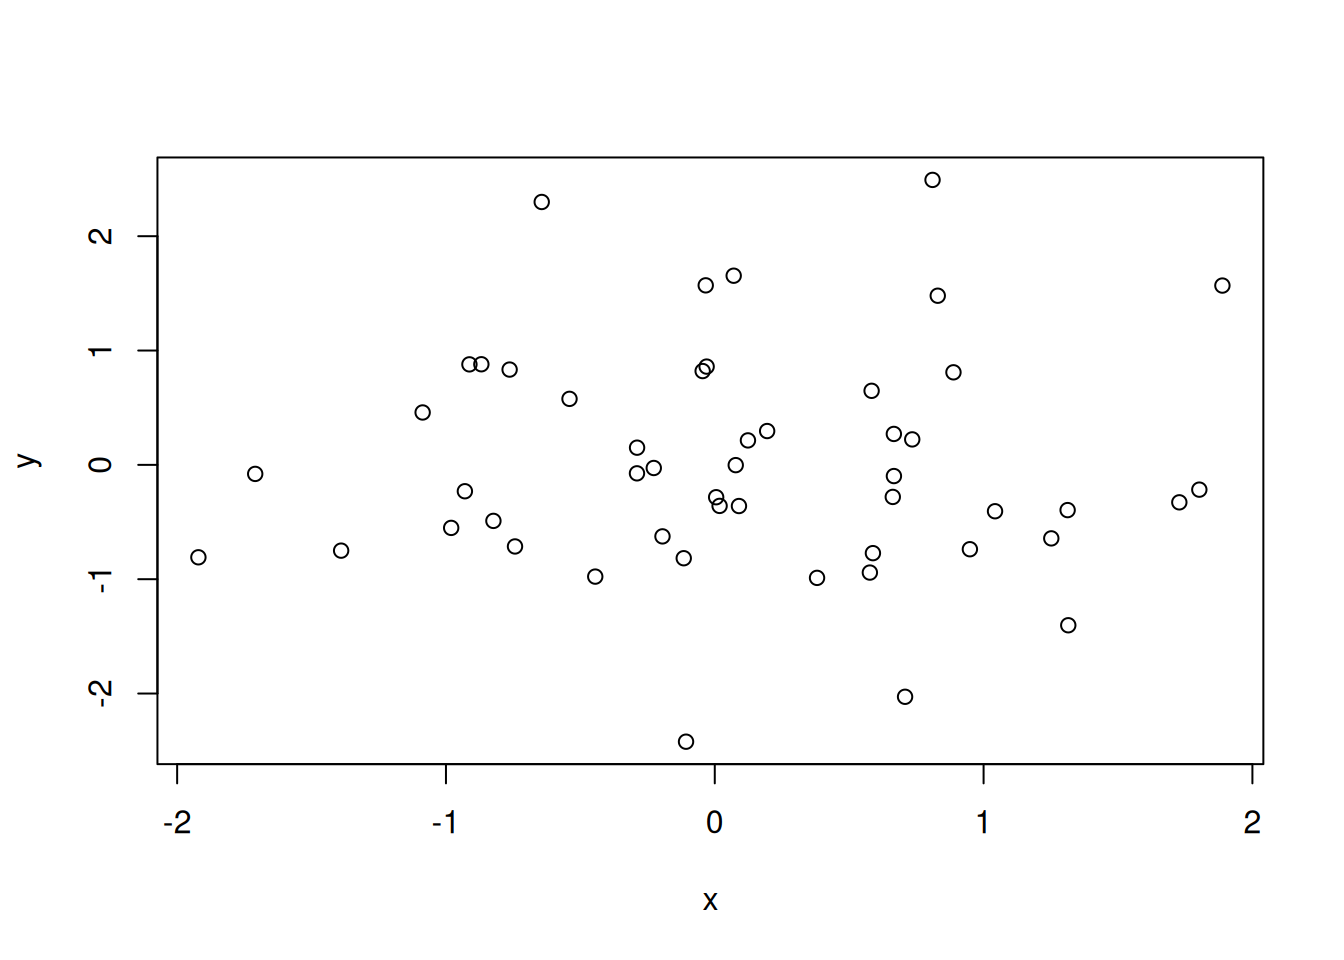
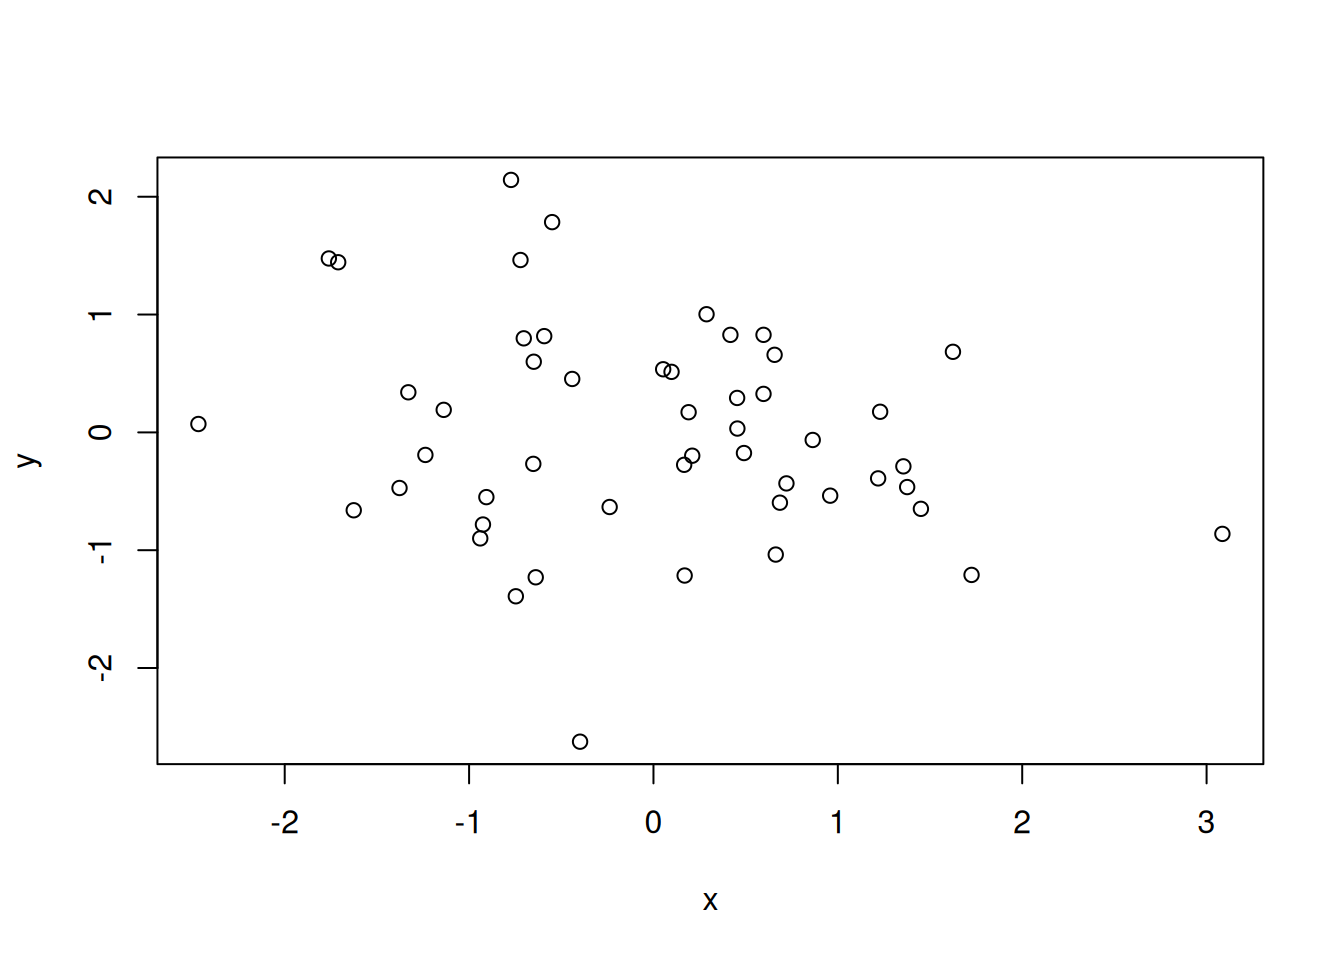
vscode

diff --git a/훑어보기.html b/훑어보기.html
@@ -2,7 +2,7 @@
 <html xmlns="http://www.w3.org/1999/xhtml" lang="en" xml:lang="en"><head>
 
 <meta charset="utf-8">
-<meta name="generator" content="quarto-1.8.25">
+<meta name="generator" content="quarto-1.8.27">
 
 <meta name="viewport" content="width=device-width, initial-scale=1.0, user-scalable=yes">
 
@@ -67,7 +67,7 @@ pre > code.sourceCode > span > a:first-child::before { text-decoration: underlin
 <script src="훑어보기_files/libs/quarto-html/tippy.umd.min.js"></script>
 <script src="훑어보기_files/libs/quarto-html/anchor.min.js"></script>
 <link href="훑어보기_files/libs/quarto-html/tippy.css" rel="stylesheet">
-<link href="훑어보기_files/libs/quarto-html/quarto-syntax-highlighting-7b89279ff1a6dce999919e0e67d4d9ec.css" rel="stylesheet" id="quarto-text-highlighting-styles">
+<link href="훑어보기_files/libs/quarto-html/quarto-syntax-highlighting-ed96de9b727972fe78a7b5d16c58bf87.css" rel="stylesheet" id="quarto-text-highlighting-styles">
 <script src="훑어보기_files/libs/bootstrap/bootstrap.min.js"></script>
 <link href="훑어보기_files/libs/bootstrap/bootstrap-icons.css" rel="stylesheet">
 <link href="훑어보기_files/libs/bootstrap/bootstrap-89b822375b1983cf57e0aa229304cf7a.min.css" rel="stylesheet" append-hash="true" id="quarto-bootstrap" data-mode="light">
@@ -109,9 +109,6 @@ pre > code.sourceCode > span > a:first-child::before { text-decoration: underlin
 <section id="r-훑어보기" class="level2">
 <h2 class="anchored" data-anchor-id="r-훑어보기">R 훑어보기</h2>
 <p>R 환경에서 할 수 있는 작업들을 빠르게 살펴 보자. (RStudio 실행)</p>
-</section>
-<section id="그래프" class="level2">
-<h2 class="anchored" data-anchor-id="그래프">그래프</h2>
 <p>다음 명령들을 콘솔(Comsole) 탭에 차례로 입력하면 간단한 그래프를 그려준다. (현 단계에서 그래프 출력 관련한 사용자 설정 방법은 무시)</p>
 <div class="cell">
 <div class="code-copy-outer-scaffold"><div class="sourceCode cell-code" id="cb1"><pre class="sourceCode r code-with-copy"><code class="sourceCode r"><span id="cb1-1"><a href="#cb1-1" aria-hidden="true" tabindex="-1"></a>x <span class="ot">&lt;-</span> <span class="fu">rnorm</span>(<span class="dv">50</span>)</span>
@@ -129,7 +126,7 @@ pre > code.sourceCode > span > a:first-child::before { text-decoration: underlin
 <div class="cell">
 <div class="code-copy-outer-scaffold"><div class="sourceCode cell-code" id="cb2"><pre class="sourceCode r code-with-copy"><code class="sourceCode r"><span id="cb2-1"><a href="#cb2-1" aria-hidden="true" tabindex="-1"></a><span class="fu">ls</span>()</span></code></pre></div><button title="Copy to Clipboard" class="code-copy-button"><i class="bi"></i></button></div>
 <div class="cell-output cell-output-stdout">
-<pre><code>[1] "x" "y"</code></pre>
+<pre><code>[1] "pandoc_dir"      "quarto_bin_path" "x"               "y"              </code></pre>
 </div>
 <div class="code-copy-outer-scaffold"><div class="sourceCode cell-code" id="cb4"><pre class="sourceCode r code-with-copy"><code class="sourceCode r"><span id="cb4-1"><a href="#cb4-1" aria-hidden="true" tabindex="-1"></a><span class="fu">rm</span>(x, y)</span></code></pre></div><button title="Copy to Clipboard" class="code-copy-button"><i class="bi"></i></button></div>
 </div>
@@ -141,27 +138,27 @@ pre > code.sourceCode > span > a:first-child::before { text-decoration: underlin
 <span id="cb5-3"><a href="#cb5-3" aria-hidden="true" tabindex="-1"></a>dummy <span class="ot">&lt;-</span> <span class="fu">data.frame</span>(<span class="at">x =</span> x, <span class="at">y =</span> x <span class="sc">+</span> <span class="fu">rnorm</span>(x)<span class="sc">*</span>w)</span>
 <span id="cb5-4"><a href="#cb5-4" aria-hidden="true" tabindex="-1"></a>dummy</span></code></pre></div><button title="Copy to Clipboard" class="code-copy-button"><i class="bi"></i></button></div>
 <div class="cell-output cell-output-stdout">
-<pre><code>    x          y
-1   1  0.8557636
-2   2  1.7326340
-3   3  4.4097477
-4   4  2.4825633
-5   5  3.9316389
-6   6  7.0502330
-7   7  7.4026373
-8   8  7.6527937
-9   9  8.4052062
-10 10  7.9938652
-11 11  9.8940409
-12 12 14.6028086
-13 13 11.3294528
-14 14 17.6822604
-15 15 12.7730032
-16 16 15.1397532
-17 17 15.0313824
-18 18 20.5368508
-19 19 15.2925915
-20 20 21.0519004</code></pre>
+<pre><code>    x           y
+1   1 -0.58454679
+2   2 -0.06723254
+3   3  3.44241509
+4   4  1.84645042
+5   5  7.83749839
+6   6  7.09017115
+7   7  5.58315458
+8   8  8.55412084
+9   9 11.23897118
+10 10 10.56522953
+11 11 13.17431021
+12 12 10.31464504
+13 13 15.97313753
+14 14 16.45379566
+15 15 12.87568593
+16 16 20.69589927
+17 17 17.00143330
+18 18 14.54624635
+19 19 20.45696146
+20 20 26.33806012</code></pre>
 </div>
 </div>
 <p>가중치 반영여부에 따른 회귀분석 결과를 비교해 보자.</p>
@@ -174,19 +171,19 @@ Call:
 lm(formula = y ~ x, data = dummy)
 
 Residuals:
-    Min      1Q  Median      3Q     Max 
--3.3096 -1.3901 -0.2879  1.2692  3.9857 
+   Min     1Q Median     3Q    Max 
+-5.252 -1.578  0.119  1.524  4.239 
 
 Coefficients:
             Estimate Std. Error t value Pr(&gt;|t|)    
-(Intercept) -0.03940    0.88365  -0.045    0.965    
-x            0.98114    0.07377  13.301 9.46e-11 ***
+(Intercept) -0.91648    1.13632  -0.807     0.43    
+x            1.15079    0.09486  12.132 4.23e-10 ***
 ---
 Signif. codes:  0 '***' 0.001 '**' 0.01 '*' 0.05 '.' 0.1 ' ' 1
 
-Residual standard error: 1.902 on 18 degrees of freedom
-Multiple R-squared:  0.9076,    Adjusted R-squared:  0.9025 
-F-statistic: 176.9 on 1 and 18 DF,  p-value: 9.464e-11</code></pre>
+Residual standard error: 2.446 on 18 degrees of freedom
+Multiple R-squared:  0.891, Adjusted R-squared:  0.885 
+F-statistic: 147.2 on 1 and 18 DF,  p-value: 4.232e-10</code></pre>
 </div>
 <div class="code-copy-outer-scaffold"><div class="sourceCode cell-code" id="cb9"><pre class="sourceCode r code-with-copy"><code class="sourceCode r"><span id="cb9-1"><a href="#cb9-1" aria-hidden="true" tabindex="-1"></a>fm1 <span class="ot">&lt;-</span> <span class="fu">lm</span>(y <span class="sc">~</span> x, <span class="at">data =</span> dummy, <span class="at">weight =</span> <span class="dv">1</span><span class="sc">/</span>w<span class="sc">^</span><span class="dv">2</span>)</span>
 <span id="cb9-2"><a href="#cb9-2" aria-hidden="true" tabindex="-1"></a><span class="fu">summary</span>(fm1)</span></code></pre></div><button title="Copy to Clipboard" class="code-copy-button"><i class="bi"></i></button></div>
@@ -196,19 +193,19 @@ Call:
 lm(formula = y ~ x, data = dummy, weights = 1/w^2)
 
 Weighted Residuals:
-    Min      1Q  Median      3Q     Max 
--1.0421 -0.5027 -0.1316  0.4748  1.3879 
+     Min       1Q   Median       3Q      Max 
+-1.73769 -0.64885  0.07092  0.61337  1.48820 
 
 Coefficients:
             Estimate Std. Error t value Pr(&gt;|t|)    
-(Intercept) -0.04404    0.62101  -0.071    0.944    
-x            0.98157    0.06332  15.501 7.43e-12 ***
+(Intercept) -1.19330    0.81161   -1.47    0.159    
+x            1.17575    0.08276   14.21 3.19e-11 ***
 ---
 Signif. codes:  0 '***' 0.001 '**' 0.01 '*' 0.05 '.' 0.1 ' ' 1
 
-Residual standard error: 0.6863 on 18 degrees of freedom
-Multiple R-squared:  0.9303,    Adjusted R-squared:  0.9264 
-F-statistic: 240.3 on 1 and 18 DF,  p-value: 7.428e-12</code></pre>
+Residual standard error: 0.8969 on 18 degrees of freedom
+Multiple R-squared:  0.9181,    Adjusted R-squared:  0.9136 
+F-statistic: 201.8 on 1 and 18 DF,  p-value: 3.187e-11</code></pre>
 </div>
 </div>
 </section>

diff --git a/훑어보기_files/libs/quarto-html/quarto-syntax-highlighting-ed96de9b727972fe78a7b5d16c58bf87.css b/훑어보기_files/libs/quarto-html/quarto-syntax-highlighting-ed96de9b727972fe78a7b5d16c58bf87.css
@@ -1,0 +1,236 @@
+/* quarto syntax highlight colors */
+:root {
+  --quarto-hl-ot-color: #003B4F;
+  --quarto-hl-at-color: #657422;
+  --quarto-hl-ss-color: #20794D;
+  --quarto-hl-an-color: #5E5E5E;
+  --quarto-hl-fu-color: #4758AB;
+  --quarto-hl-st-color: #20794D;
+  --quarto-hl-cf-color: #003B4F;
+  --quarto-hl-op-color: #5E5E5E;
+  --quarto-hl-er-color: #AD0000;
+  --quarto-hl-bn-color: #AD0000;
+  --quarto-hl-al-color: #AD0000;
+  --quarto-hl-va-color: #111111;
+  --quarto-hl-bu-color: inherit;
+  --quarto-hl-ex-color: inherit;
+  --quarto-hl-pp-color: #AD0000;
+  --quarto-hl-in-color: #5E5E5E;
+  --quarto-hl-vs-color: #20794D;
+  --quarto-hl-wa-color: #5E5E5E;
+  --quarto-hl-do-color: #5E5E5E;
+  --quarto-hl-im-color: #00769E;
+  --quarto-hl-ch-color: #20794D;
+  --quarto-hl-dt-color: #AD0000;
+  --quarto-hl-fl-color: #AD0000;
+  --quarto-hl-co-color: #5E5E5E;
+  --quarto-hl-cv-color: #5E5E5E;
+  --quarto-hl-cn-color: #8f5902;
+  --quarto-hl-sc-color: #5E5E5E;
+  --quarto-hl-dv-color: #AD0000;
+  --quarto-hl-kw-color: #003B4F;
+}
+
+/* other quarto variables */
+:root {
+  --quarto-font-monospace: SFMono-Regular, Menlo, Monaco, Consolas, "Liberation Mono", "Courier New", monospace;
+}
+
+/* syntax highlight based on Pandoc's rules */
+pre > code.sourceCode > span {
+  color: #003B4F;
+}
+
+code.sourceCode > span {
+  color: #003B4F;
+}
+
+div.sourceCode,
+div.sourceCode pre.sourceCode {
+  color: #003B4F;
+}
+
+/* Normal */
+code span {
+  color: #003B4F;
+}
+
+/* Alert */
+code span.al {
+  color: #AD0000;
+  font-style: inherit;
+}
+
+/* Annotation */
+code span.an {
+  color: #5E5E5E;
+  font-style: inherit;
+}
+
+/* Attribute */
+code span.at {
+  color: #657422;
+  font-style: inherit;
+}
+
+/* BaseN */
+code span.bn {
+  color: #AD0000;
+  font-style: inherit;
+}
+
+/* BuiltIn */
+code span.bu {
+  font-style: inherit;
+}
+
+/* ControlFlow */
+code span.cf {
+  color: #003B4F;
+  font-weight: bold;
+  font-style: inherit;
+}
+
+/* Char */
+code span.ch {
+  color: #20794D;
+  font-style: inherit;
+}
+
+/* Constant */
+code span.cn {
+  color: #8f5902;
+  font-style: inherit;
+}
+
+/* Comment */
+code span.co {
+  color: #5E5E5E;
+  font-style: inherit;
+}
+
+/* CommentVar */
+code span.cv {
+  color: #5E5E5E;
+  font-style: italic;
+}
+
+/* Documentation */
+code span.do {
+  color: #5E5E5E;
+  font-style: italic;
+}
+
+/* DataType */
+code span.dt {
+  color: #AD0000;
+  font-style: inherit;
+}
+
+/* DecVal */
+code span.dv {
+  color: #AD0000;
+  font-style: inherit;
+}
+
+/* Error */
+code span.er {
+  color: #AD0000;
+  font-style: inherit;
+}
+
+/* Extension */
+code span.ex {
+  font-style: inherit;
+}
+
+/* Float */
+code span.fl {
+  color: #AD0000;
+  font-style: inherit;
+}
+
+/* Function */
+code span.fu {
+  color: #4758AB;
+  font-style: inherit;
+}
+
+/* Import */
+code span.im {
+  color: #00769E;
+  font-style: inherit;
+}
+
+/* Information */
+code span.in {
+  color: #5E5E5E;
+  font-style: inherit;
+}
+
+/* Keyword */
+code span.kw {
+  color: #003B4F;
+  font-weight: bold;
+  font-style: inherit;
+}
+
+/* Operator */
+code span.op {
+  color: #5E5E5E;
+  font-style: inherit;
+}
+
+/* Other */
+code span.ot {
+  color: #003B4F;
+  font-style: inherit;
+}
+
+/* Preprocessor */
+code span.pp {
+  color: #AD0000;
+  font-style: inherit;
+}
+
+/* SpecialChar */
+code span.sc {
+  color: #5E5E5E;
+  font-style: inherit;
+}
+
+/* SpecialString */
+code span.ss {
+  color: #20794D;
+  font-style: inherit;
+}
+
+/* String */
+code span.st {
+  color: #20794D;
+  font-style: inherit;
+}
+
+/* Variable */
+code span.va {
+  color: #111111;
+  font-style: inherit;
+}
+
+/* VerbatimString */
+code span.vs {
+  color: #20794D;
+  font-style: inherit;
+}
+
+/* Warning */
+code span.wa {
+  color: #5E5E5E;
+  font-style: italic;
+}
+
+.prevent-inlining {
+  content: "</";
+}
+
+/*# sourceMappingURL=0920dd6d7437995b8cdf7429764427b1.css.map */
